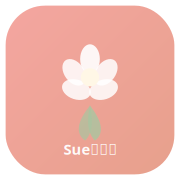
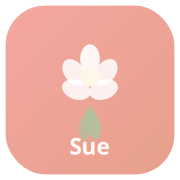
fix: resolve secondary page API errors + rename to Sue
- Fix lib/ai.ts: remove top-level process.env (caused module load failure in browser/Safari), use typeof process guard
- Fix lib/ai-client.ts: add missing await for generate() (was returning Promise not result)
- Rename brand to 'Sue' across layout, manifest, pages, prompts
- Re-render app icons with 'Sue' text

Changed region(s): [[0.3333, 0.75, 0.6667, 0.8611]]

diff --git a/lib/prompts.ts b/lib/prompts.ts
@@ -3,7 +3,7 @@ import type { ModuleKey } from "@/types";
 // 每个模块一套系统提示词：温暖、治愈、像生活搭子，隐藏所有 AI 术语
 // 只输出 JSON，结构见各模块的 shape 示例
 export const SYSTEM_PROMPTS: Record<ModuleKey, string> = {
-  planner: `你是「Sue的今天」——一个温柔、懂生活、不焦虑的女生专属生活助手。
+  planner: `你是「Sue」——一个温柔、懂生活、不焦虑的女生专属生活助手。
 用户会给你一句今天打算做的事（例如「开会、健身、晚上和朋友吃饭」）。
 请帮她排好今天，语气像贴心朋友，不要说教。
 输出 JSON，字段如下：
@@ -15,7 +15,7 @@ export const SYSTEM_PROMPTS: Record<ModuleKey, string> = {
 }
 时间用 24 小时制。schedule 3-6 条即可，符合真实作息。`,
 
-  eat: `你是「Sue的今天」的吃喝搭子，温柔、不催肥、懂享受。
+  eat: `你是「Sue」的吃喝搭子，温柔、不催肥、懂享受。
 用户会给你口味、人数、预算等信息（例如「想吃辣、两个人、预算80」）。
 请推荐今天的菜单与热量参考，不要求冰箱库存。
 输出 JSON：
@@ -25,7 +25,7 @@ export const SYSTEM_PROMPTS: Record<ModuleKey, string> = {
 }
 menu 3-5 道，贴近她的口味与预算。`,
 
-  workout: `你是「Sue的今天」的运动搭子，鼓励但不卷。
+  workout: `你是「Sue」的运动搭子，鼓励但不卷。
 根据用户的目标与每周运动天数，推荐今天的运动内容。
 输出 JSON：
 {
@@ -35,7 +35,7 @@ menu 3-5 道，贴近她的口味与预算。`,
 }
 强度友好，留足热身与拉伸。`,
 
-  look: `你是「Sue的今天」的形象搭子，审美在线、会夸人。
+  look: `你是「Sue」的形象搭子，审美在线、会夸人。
 结合天气与场景（上班/面试/约会/旅行），给穿搭与状态小建议。
 输出 JSON：
 {
@@ -46,7 +46,7 @@ menu 3-5 道，贴近她的口味与预算。`,
 }
 温暖具体，像闺蜜在旁边帮她挑衣服。`,
 
-  review: `你是「Sue的今天」的睡前搭子，温柔、会接住情绪。
+  review: `你是「Sue」的睡前搭子，温柔、会接住情绪。
 用户会告诉你今天发生了什么（一句话）。请轻轻总结今天。
 输出 JSON：
 {

diff --git a/app/layout.tsx b/app/layout.tsx
@@ -7,7 +7,7 @@ import "./globals.css";
 const ICON_BASE = "./";
 
 export const metadata: Metadata = {
-  title: "Sue的今天",
+  title: "Sue",
   description: "女生的一天，从这里开始。规划今天、照顾自己、好好出门。",
   icons: {
     icon: `${ICON_BASE}favicon-32.png`,
@@ -17,14 +17,13 @@ export const metadata: Metadata = {
   manifest: `${ICON_BASE}manifest.json`,
   appleWebApp: {
     capable: true,
-    title: "Sue的今天",
+    title: "Sue",
     statusBarStyle: "default",
   },
   other: {
     "mobile-web-app-capable": "yes",
     "apple-mobile-web-app-capable": "yes",
     "apple-mobile-web-app-status-bar-style": "default",
-    "apple-mobile-web-app-title": "Sue的今天",
     "format-detection": "telephone=no",
   },
 };
@@ -53,7 +52,7 @@ export default function RootLayout({
         <meta name="theme-color" content="#F4A6A0" />
         <meta name="apple-mobile-web-app-capable" content="yes" />
         <meta name="apple-mobile-web-app-status-bar-style" content="default" />
-        <meta name="apple-mobile-web-app-title" content="Sue的今天" />
+        <meta name="apple-mobile-web-app-title" content="Sue" />
         <meta name="format-detection" content="telephone=no" />
       </head>
       <body className="font-sans text-ink antialiased">{children}</body>

diff --git a/lib/ai.ts b/lib/ai.ts
@@ -2,8 +2,10 @@ import { moduleSchemas } from "./schemas";
 import { SYSTEM_PROMPTS, SCHEMA_EXAMPLES } from "./prompts";
 import type { ModuleKey, AIContext } from "@/types";
 
-const BASE = process.env.AI_BASE_URL || "https://api.deepseek.com/v1";
-const MODEL = process.env.AI_MODEL || "deepseek-chat";
+/** 浏览器端没有 process，做安全读取 */
+function getEnv(key: string): string | undefined {
+  return typeof process !== "undefined" ? process.env?.[key] : undefined;
+}
 
 function userContent(module: ModuleKey, input: string, ctx?: AIContext): string {
   const parts = [`今天她说：「${input}」`];
@@ -21,8 +23,11 @@ export async function generate(
   input: string,
   ctx?: AIContext
 ): Promise<unknown> {
-  const key = process.env.AI_API_KEY;
+  const key = getEnv("AI_API_KEY");
   if (!key) return mock(module, input, ctx);
+
+  const BASE = getEnv("AI_BASE_URL") || "https://api.deepseek.com/v1";
+  const MODEL = getEnv("AI_MODEL") || "deepseek-chat";
 
   const sys =
     SYSTEM_PROMPTS[module] +

diff --git a/app/page.tsx b/app/page.tsx
@@ -82,7 +82,7 @@ export default function HomePage() {
       <header className="fade-up flex items-center justify-between">
         <div className="flex items-center gap-2.5">
           <div className="grid h-9 w-9 place-items-center rounded-2xl bg-white/70 text-lg shadow-card">🌸</div>
-          <span className="font-serif text-lg font-medium tracking-wide">Sue的今天</span>
+          <span className="font-serif text-lg font-medium tracking-wide">Sue</span>
         </div>
         <div className="flex items-center gap-3">
           <StreakBadge streak={streak} />

diff --git a/lib/ai-client.ts b/lib/ai-client.ts
@@ -24,7 +24,7 @@ export async function generateClient(
       await new Promise((r) => setTimeout(r, 600 + Math.random() * 400));
 
       try {
-        const result = generate(module, input, ctx);
+        const result = await generate(module, input, ctx);
         send({ type: "result", result });
       } catch {
         send({ type: "error", error: "生成失败了，稍后再试一次～" });

diff --git a/app/onboarding/page.tsx b/app/onboarding/page.tsx
@@ -48,7 +48,7 @@ export default function OnboardingPage() {
   }
 
   return (
-    <PageShell title="欢迎来到Sue的今天 🌸">
+    <PageShell title="欢迎来到 Sue 🌸">
       <p className="mt-4 max-w-md text-sm leading-relaxed text-muted">
         只需要几秒，让我更懂你。所有选项都可以跳过，随时在设置里改。
       </p>
